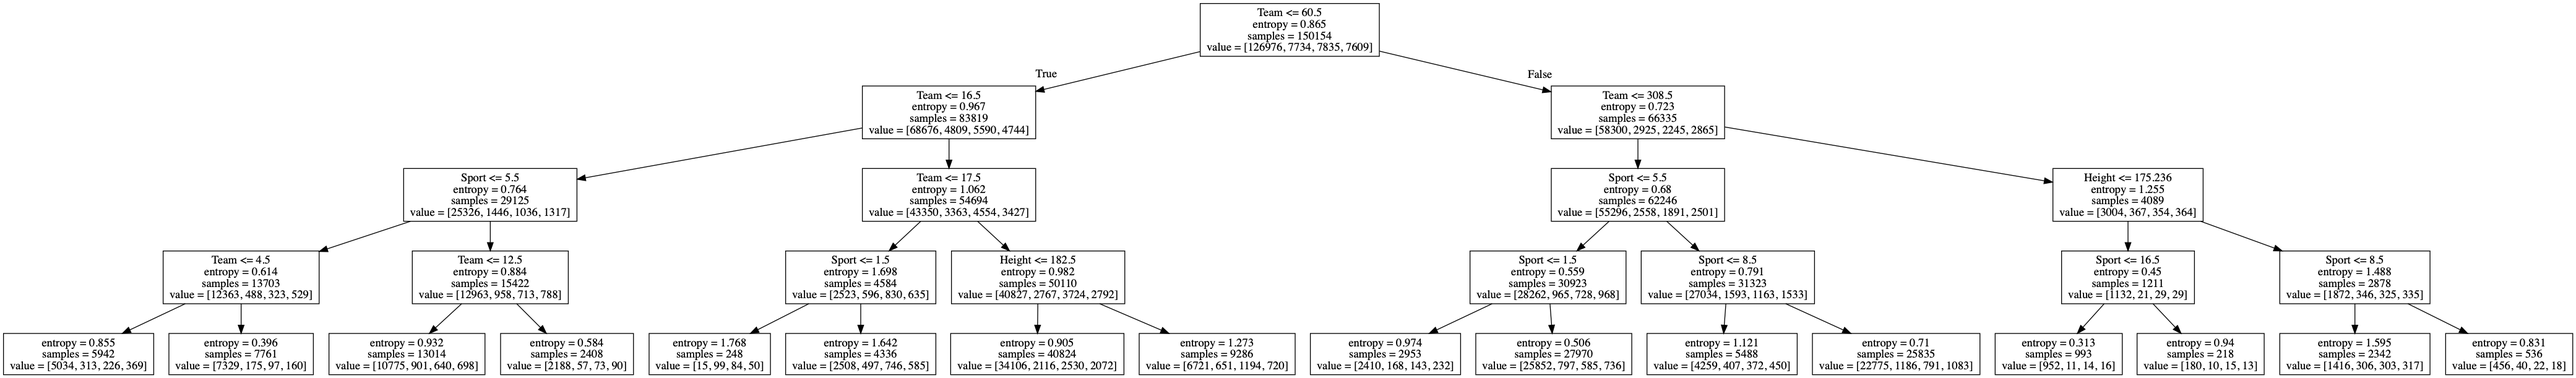
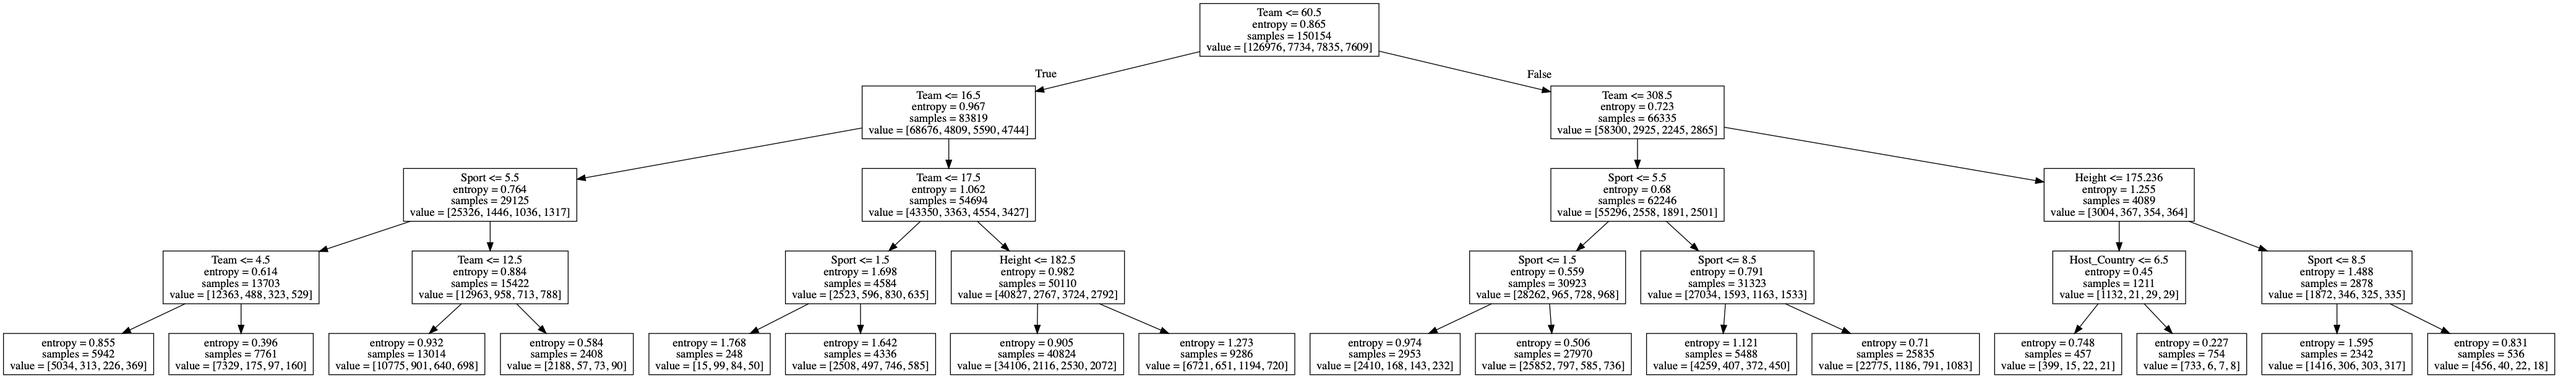
different_files

diff --git a/test.py b/test.py
@@ -4,14 +4,8 @@ import pandas
 from subprocess import check_call
 import seaborn as sns
 from matplotlib import pyplot as plt
-from sklearn.model_selection import GridSearchCV
-from sklearn.metrics import accuracy_score, precision_recall_fscore_support
-from sklearn.tree import DecisionTreeClassifier, export_graphviz
-import keras
-from keras.models import Sequential
-from keras.layers import Dense
-from keras.wrappers.scikit_learn import KerasClassifier
-
+from decisionTree import decision_tree
+#from ann import ann_classifier
 
 original = pandas.read_csv('athlete_events.csv')
 city_country_map = {'Barcelona' : 'ESP', 'London' : 'GBR', 'Antwerpen' : 'BEL', 'Paris' : 'FRA', 'Los Angeles' : 'USA', 'Helsinki' : 'FIN', 'Sydney' :  'AUS', 'Atlanta' : 'USA', 'Stockholm' : 'SWE', 'Beijing' : 'CHN', 'Rio de Janeiro' : 'BRA',  'Athina' : 'GRE', 'Mexico City' : 'MEX', 'Munich' : 'GER', 'Seoul' : 'KOR', 'Berlin' : 'GER',  'Melbourne' : 'AUS', 'Roma' : 'ITA', 'Amsterdam' : 'NED', 'Montreal' : 'CAN', 'Moskva' : 'RUS', 'Tokyo' : 'JPN', 'St. Louis' : 'USA'}
@@ -104,88 +98,14 @@ X_test = testing_set.drop('Medal', 1)
 y_test = testing_set[['Medal']].copy()
 y_test = y_test.replace(np.nan, 'No', regex = True)
 
-# Encode string data for Decision Tree classifier
-X_train['Sex'],_ = pandas.factorize(X_train['Sex'])
-X_train['Sport'],_ = pandas.factorize(X_train['Sport'])
-X_train['Team'],_ = pandas.factorize(X_train['Team'])	
 
-y_train['Medal'],_ = pandas.factorize(y_train['Medal'])
+# Decision Tree Classifier
+decision_tree(X_train,y_train,X_test,y_test)
 
-X_test['Sex'],_ = pandas.factorize(X_test['Sex'])
-X_test['Sport'],_ = pandas.factorize(X_test['Sport'])
-X_test['Team'],_ = pandas.factorize(X_test['Team'])	
-
-y_test['Medal'],_ = pandas.factorize(y_test['Medal'])
-
-# Gini Classifier
-def decision_tree(classifier):
-    dec_classifier = DecisionTreeClassifier(criterion = classifier, random_state = 100, max_depth = 4)
-    dec_classifier.fit(X_train, y_train)
-
-    features = list(X_train.head(0))
-
-    if classifier=='gini':
-        export_graphviz(dec_classifier, out_file = 'gini_tree.dot', feature_names = X_train.columns)
-        check_call(['dot','-Tpng','gini_tree.dot','-o','gini_OutputFile.png'])
-    else :
-        export_graphviz(dec_classifier, out_file = 'entropy_tree.dot', feature_names = X_train.columns)
-        check_call(['dot','-Tpng','entropy_tree.dot','-o','entropy_OutputFile.png'])
-
-    y_pred = dec_classifier.predict(X_test)
-    print('Classifier :', classifier)
-    print('\nAccuracy: ', accuracy_score(y_test, y_pred) * 100)
-    precision, recall, fscore, support = precision_recall_fscore_support(y_test, y_pred, average = 'micro')
-    print('\nPrecision: ', precision, '\nRecall: ', recall, '\nF-score: ', fscore)
-decision_tree('gini')
-decision_tree('entropy')
-
-
-#ANN begins
-
-accuracy = []
-max_accuracy = 0
-optimial_params = []
-
-#def bulid_ann_model(neurons, optimizer, x, y, activation):
-#    global max_accuracy
-#    model = Sequential()
-#    model.add(Dense(neurons, input_dim = 7, activation = activation))
-#    model.add(Dense(neurons, activation = activation))
-#    model.add(Dense(1, activation = 'sigmoid'))
-#
-#    model.compile(loss = 'mse', optimizer = optimizer, metrics = ['accuracy'])
-#    model.fit(X_train, y_train, epochs = 10, batch_size = 50)
-#
-#    scores = model.evaluate(x, y)
-#    accuracy.append(scores[1]*100)
-#
-#    if(scores[1]*100 > max_accuracy):
-#        max_accuracy = scores[1]*100
-#        optimial_params = [neurons, optimizer, activation]
-
-# creating ann model
-def create_ann_model(activation = 'relu', neurons = 1, optimizer = 'adam'):
-    model = Sequential()
-    model.add(Dense(neurons, input_dim = 7, activation = activation))
-    model.add(Dense(1, activation = 'sigmoid'))
-    model.compile(loss = 'mse', metrics = ['accuracy'], optimizer = optimizer)
-    return model
-
-# defining grid search parameters
-neurons = [2, 4, 6, 8, 10]
-optimizer = ['adam', 'sgd', 'rmsprop']
-activation = ['relu', 'sigmoid', 'tanh', 'linear']
-epochs = [10]
-batch_size = [50]
-param_grid = dict(epochs = epochs, batch_size = batch_size, optimizer = optimizer, activation = activation, neurons = neurons)
-
-# Grid Search
-model = KerasClassifier(build_fn = create_ann_model)
-grid = GridSearchCV(estimator = model, param_grid = param_grid, n_jobs = -1)
-grid_results = grid.fit(X_train, y_train)
-
-# Best combination of hyper-parameters
-print('Best parameter: ', grid_results.best_score_, grid_results.best_params_)
+# ANN Classifier
+final_X = final_data.drop(columns = ['Medal'])
+final_Y = final_data['Medal'] 
+#ann_classifier(final_X, final_Y)
 
 
 #for neuron in neurons :

diff --git a/decisionTree.py b/decisionTree.py
@@ -1,0 +1,42 @@
+import numpy as np
+import pandas
+from subprocess import check_call
+import seaborn as sns
+from matplotlib import pyplot as plt
+from sklearn.model_selection import GridSearchCV
+from sklearn.metrics import accuracy_score, precision_recall_fscore_support
+from sklearn.tree import DecisionTreeClassifier, export_graphviz
+
+
+# Encoding the attributes for classifier
+def decision_tree(X_train,y_train,X_test,y_test):
+    X_train['Sex'],_ = pandas.factorize(X_train['Sex'])
+    X_train['Sport'],_ = pandas.factorize(X_train['Sport'])
+    X_train['Team'],_ = pandas.factorize(X_train['Team'])
+    X_train['Host_Country'],_=pandas.factorize(X_train['Host_Country'])	
+    y_train['Medal'],_ = pandas.factorize(y_train['Medal'])
+    X_test['Sex'],_ = pandas.factorize(X_test['Sex'])
+    X_test['Sport'],_ = pandas.factorize(X_test['Sport'])
+    X_test['Team'],_ = pandas.factorize(X_test['Team'])	
+    y_test['Medal'],_ = pandas.factorize(y_test['Medal'])
+    X_test['Host_Country'],_=pandas.factorize(X_test['Host_Country'])
+    classifier('gini',X_train,y_train,X_test,y_test)
+    classifier('entropy',X_train,y_train,X_test,y_test)
+
+# Decision Tree classifier
+def classifier(classifier,X_train,y_train,X_test,y_test):
+    dec_classifier = DecisionTreeClassifier(criterion = classifier, random_state = 100, max_depth = 4)
+    dec_classifier.fit(X_train, y_train)
+
+    #features = list(X_train.head(0))
+    if classifier=='gini':
+        export_graphviz(dec_classifier, out_file = 'gini_tree.dot', feature_names = X_train.columns)
+        check_call(['dot','-Tpng','gini_tree.dot','-o','gini_OutputFile.png'])
+    else :
+        export_graphviz(dec_classifier, out_file = 'entropy_tree.dot', feature_names = X_train.columns)
+        check_call(['dot','-Tpng','entropy_tree.dot','-o','entropy_OutputFile.png'])
+    y_pred = dec_classifier.predict(X_test)
+    print('Classifier :', classifier)
+    print('\nAccuracy: ', accuracy_score(y_test, y_pred) * 100)
+    precision, recall, fscore, support = precision_recall_fscore_support(y_test, y_pred, average = 'micro')
+    print('\nPrecision: ', precision, '\nRecall: ', recall, '\nF-score: ', fscore)

diff --git a/ann.py b/ann.py
@@ -1,0 +1,46 @@
+import keras
+from keras.models import Sequential
+from keras.layers import Dense
+from keras.wrappers.scikit_learn import KerasClassifier
+from sklearn.model_selection import GridSearchCV
+from sklearn.metrics import accuracy_score, precision_recall_fscore_support
+
+
+
+#ANN begins
+accuracy = []
+max_accuracy = 0
+optimial_params = []
+
+def create_ann_model(activation = 'relu', neurons = 1, optimizer = 'adam'):
+    model = Sequential()
+    model.add(Dense(neurons, input_dim = 7, activation = activation))
+    model.add(Dense(1, activation = 'sigmoid'))
+    model.compile(loss = 'mse', metrics = ['accuracy'], optimizer = optimizer)
+    return model
+
+def ann_classifier(final_X, final_Y):
+    # defining grid search parameters
+    neurons = [2, 4, 6, 8, 10]
+    optimizer = ['adam', 'sgd', 'rmsprop']
+    activation = ['relu', 'sigmoid', 'tanh', 'linear']
+    epochs = [10]
+    batch_size = [50]
+    param_grid = dict(epochs = epochs, batch_size = batch_size, optimizer = optimizer, activation = activation, neurons = neurons)
+
+    # Grid Search
+    model = KerasClassifier(build_fn = create_ann_model)
+    grid = GridSearchCV(estimator = model, param_grid = param_grid, n_jobs = -1)
+    grid_results = grid.fit(final_X, final_Y)
+
+    # Best combination of hyper-parameters
+    print('Best parameter: ', grid_results.best_score_, grid_results.best_params_)
+
+
+
+
+
+
+
+
+
